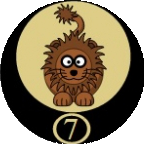
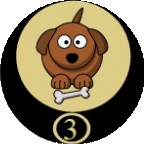
把狗头像改回来了，并且加了一个初始界面（BeginComponent）

diff --git a/src/view/BeginComponent.java b/src/view/BeginComponent.java
@@ -1,0 +1,62 @@
+package view;
+
+import controller.GameController;
+import model.Chessboard;
+
+
+
+import javax.swing.*;
+import java.awt.*;
+
+public class BeginComponent extends JFrame {
+    ChessGameFrame gameFrame;
+    ChessGameFrame information;
+
+
+    private final int WIDTH;
+    private final int HEIGHT;
+
+    public BeginComponent() {
+        setTitle("斗兽棋pro");
+        this.WIDTH = 500;
+        this.HEIGHT = 900;
+
+        setSize(WIDTH, HEIGHT);
+        setLocationRelativeTo(null); // Center the window.
+        setDefaultCloseOperation(WindowConstants.EXIT_ON_CLOSE); //设置程序关闭按键，如果点击右上方的叉就游戏全部关闭了
+        setLayout(null);
+
+        ChessGameFrame gameFrame = new ChessGameFrame(1100, 810);
+        GameController controller = new GameController(gameFrame.getChessboardComponent(), new Chessboard());
+        this.gameFrame = gameFrame;
+        gameFrame.beginFrame= this;
+
+
+        addBeginButton();
+
+        Image image = new ImageIcon("resource/background/bg.png").getImage();
+        image = image.getScaledInstance(500, 900, Image.SCALE_DEFAULT);
+        ImageIcon icon = new ImageIcon(image);
+        JLabel bg = new JLabel(icon);
+        bg.setSize(500, 900);
+        bg.setLocation(0, 0);
+        add(bg);
+    }
+
+    private void addBeginButton() {
+        JButton button = new JButton("BEGIN");
+        button.addActionListener((e) -> {
+            this.setVisible(false);
+
+            gameFrame.statusLabel.setLocation(770, 81);
+            gameFrame.repaint();
+            gameFrame.getChessboardComponent().gameController.reset();
+            gameFrame.setVisible(true);
+        });
+        button.setLocation(150, 350);
+        button.setSize(200, 100);
+        button.setFont(new Font("Rockwell", Font.BOLD, 20));
+        add(button);
+    }
+
+}

diff --git a/src/Main.java b/src/Main.java
@@ -1,6 +1,6 @@
 import controller.GameController;
 import model.Chessboard;
-import view.Begin;
+import view.BeginComponent;
 import view.ChessGameFrame;
 
 import javax.swing.*;
@@ -11,9 +11,8 @@ public class Main {
 //        Begin begin = new Begin();
 //        begin.init();
         SwingUtilities.invokeLater(() -> {
-            ChessGameFrame mainFrame = new ChessGameFrame(1100, 810);
-            GameController gameController = new GameController(mainFrame.getChessboardComponent(), new Chessboard());
-            mainFrame.setVisible(true);
+            BeginComponent beginFrame = new BeginComponent();
+            beginFrame.setVisible(true);
            new BackgroundMusic().playMusic("resource\\bgm\\bgm3.wav");
         });
     }

diff --git a/src/view/ChessGameFrame.java b/src/view/ChessGameFrame.java
@@ -10,6 +10,7 @@ import java.awt.*;
  */
 public class ChessGameFrame extends JFrame {
     //    public final Dimension FRAME_SIZE ;
+    public BeginComponent beginFrame;
     private final int WIDTH;
     private final int HEIGTH;
 
